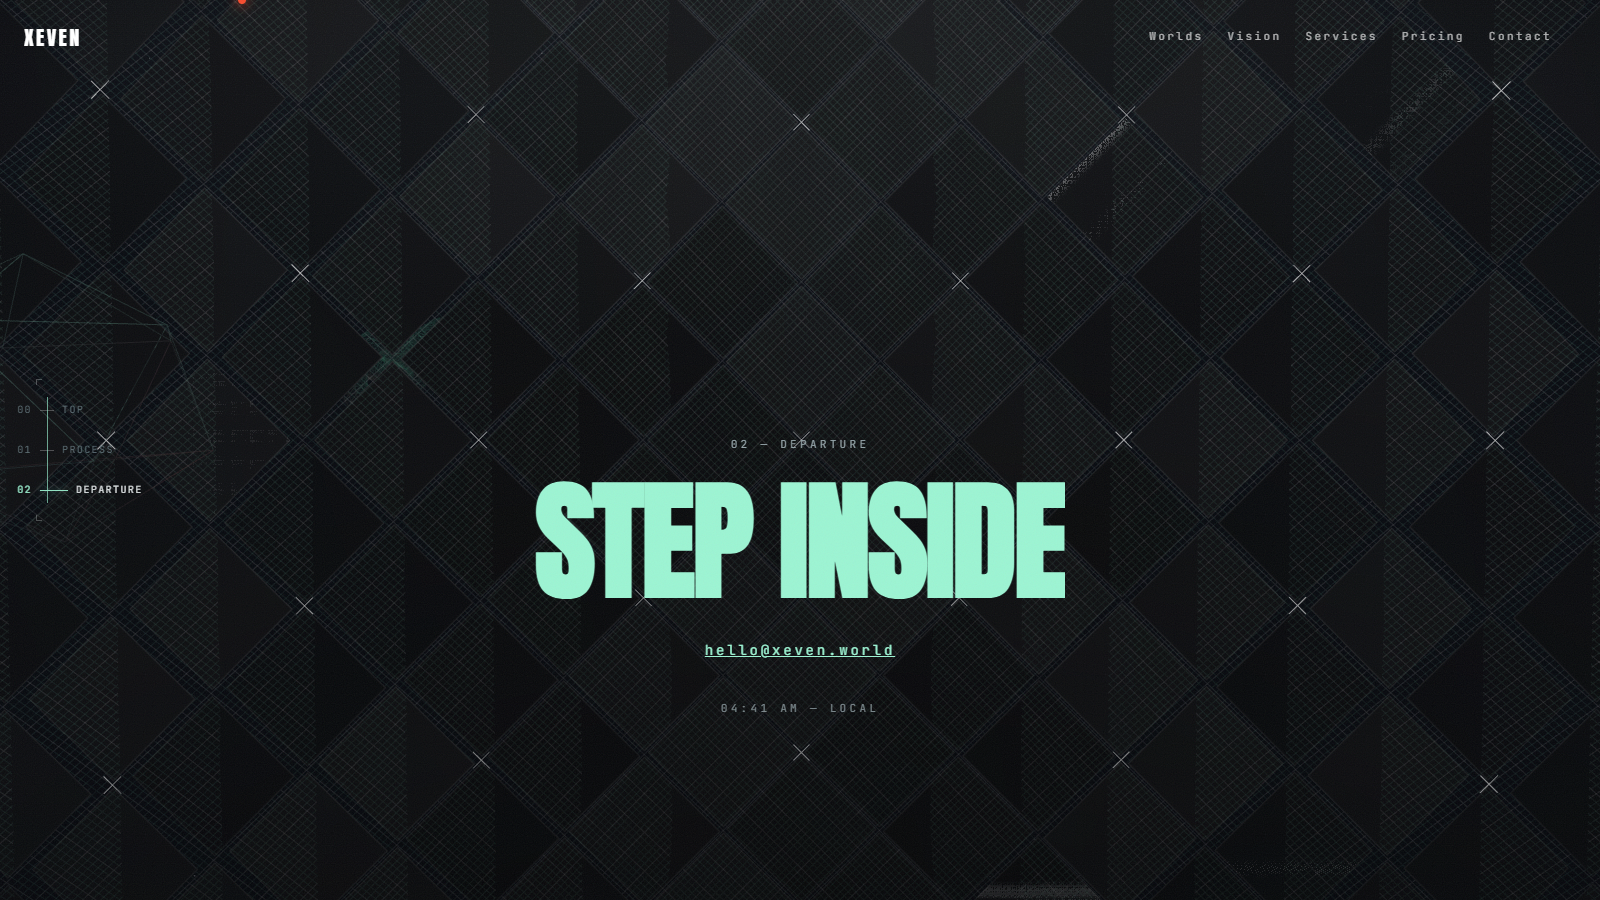
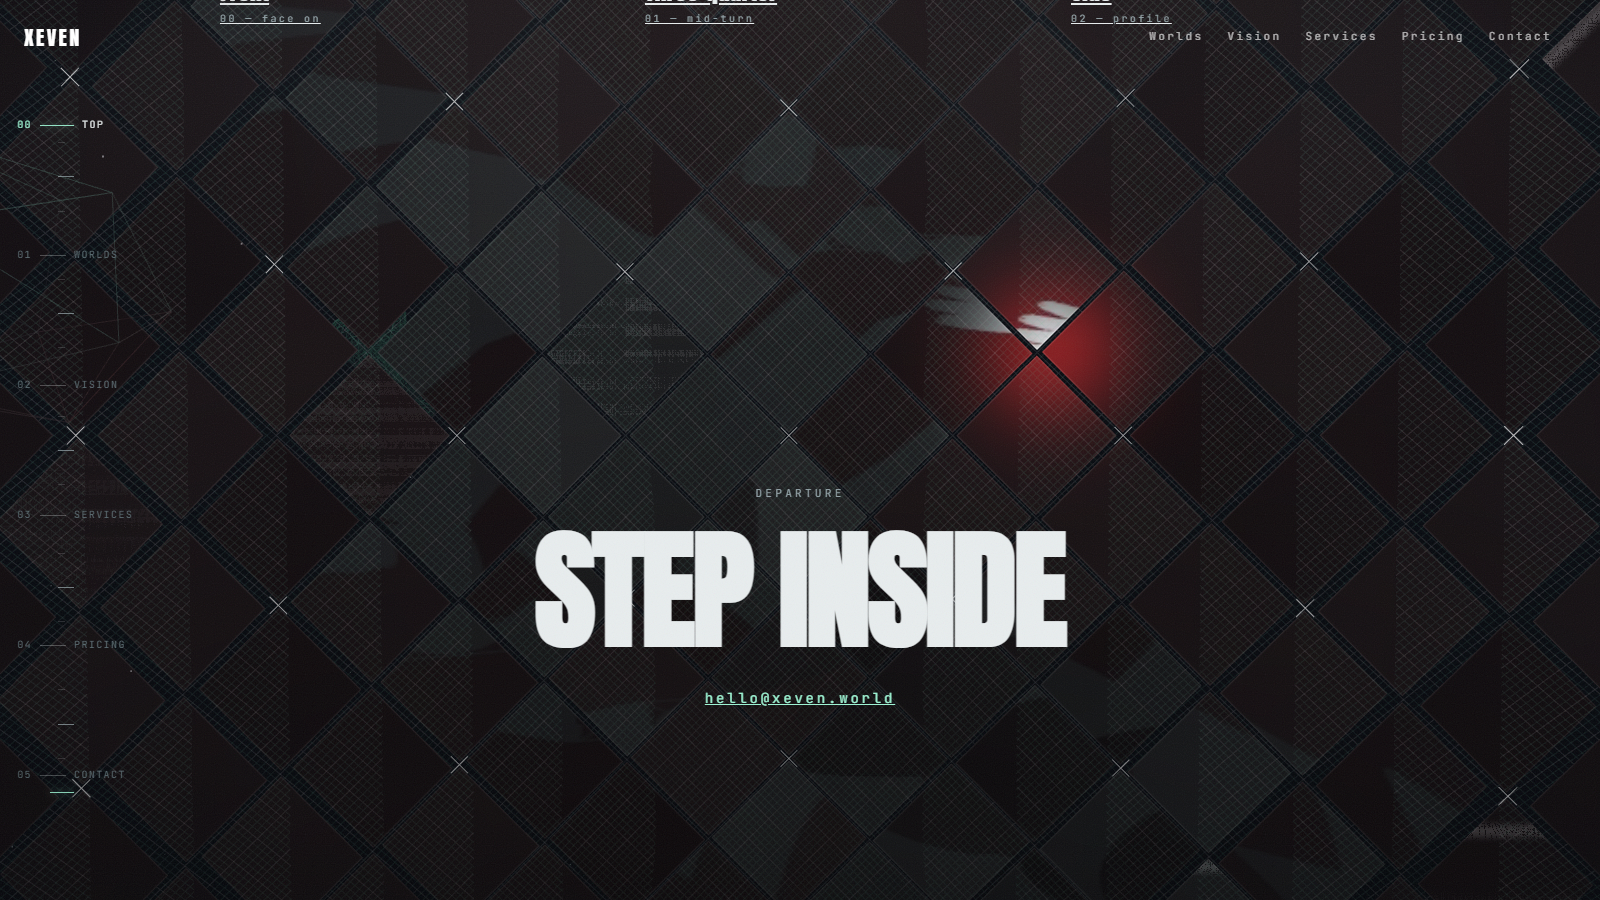
Index v2 BURST: the model is the hero

diff --git a/src/pages/EnterStage.tsx b/src/pages/EnterStage.tsx
@@ -2,43 +2,67 @@ import { useLayoutEffect, useRef, useState } from 'react'
 import gsap from 'gsap'
 import { ScrollTrigger } from 'gsap/ScrollTrigger'
 import { SplitText } from 'gsap/SplitText'
+import FilmStage from '../components/FilmStage'
 import { xs } from '../app/store'
 gsap.registerPlugin(ScrollTrigger, SplitText)
 
+/* Index v2 — BURST: the model is the hero. Sharp stage film up top,
+   anatomy stations on the descent, rotation-study cards, contact finale.
+   One timeline per property, transform/opacity only, lazy render. */
+
+const PARTS = [
+  {
+    n: '01',
+    t: 'Halo',
+    d: 'Starburst crown in sparse white linework — ten thousand sticks pretending to be ten million.',
+  },
+  {
+    n: '02',
+    t: 'Visor',
+    d: 'Smoked dark, drawn by absence. The face is what the lines refuse to say.',
+  },
+  {
+    n: '03',
+    t: 'Grin',
+    d: 'Gap-tooth grin over a ∇ torso. Friendly the way a signal flare is friendly.',
+  },
+  {
+    n: '04',
+    t: 'Hands',
+    d: 'Free hands floating on sine waves, out of phase with each other forever.',
+  },
+]
+
+const ANGLES = [
+  { src: '/assets/stills/front.png', t: 'Front', sub: '00 — face on' },
+  { src: '/assets/stills/three-quarter.png', t: 'Three-quarter', sub: '01 — mid-turn' },
+  { src: '/assets/stills/side.png', t: 'Side', sub: '02 — profile' },
+]
+
 export default function EnterStage() {
   const root = useRef<HTMLDivElement>(null!)
-  const scroll = useRef({ v: 0 })
-  const vel = useRef({ v: 0 })
   const [reduced] = useState(
     () => window.matchMedia('(prefers-reduced-motion: reduce)').matches,
   )
 
   useLayoutEffect(() => {
-    // reduced motion: no SplitText, pins, or scrubs — no ticker burn.
-    // Readable final states come from CSS + initial values below.
     if (reduced) return
     const ctx = gsap.context(() => {
-      // headline reveal
-      const split = new SplitText('.st-hero-title', { type: 'lines,words,chars', mask: 'lines', autoSplit: true })
+      // title reveal on load
+      const split = new SplitText('.bx-title', { type: 'lines,words,chars', mask: 'lines', autoSplit: true })
       gsap.from(split.chars, { yPercent: 120, duration: 1.1, ease: 'expo.out', stagger: 0.02, delay: 0.3 })
-      gsap.to('.st-fade', { opacity: 0, y: -50, ease: 'none', scrollTrigger: { trigger: '.st-hero', start: 'top top', end: 'bottom 30%', scrub: 1.2 } })
-      // dolly through space: the title pushes toward the camera and drifts
-      // up as the hero exits (parent scale — the SplitText chars own their
-      // own transforms, never contested)
-      gsap.to('.st-hero-title', {
-        scale: 1.18,
-        yPercent: -12,
-        ease: 'none',
-        scrollTrigger: { trigger: '.st-hero', start: 'top top', end: 'bottom 20%', scrub: 1.2 },
-      })
-      // ghost echo drifts slower than the title (depth without parallax
-      // libraries — transform-only, own property, own trigger range)
-      gsap.to('.hero-echo', {
-        yPercent: 24,
-        ease: 'none',
-        scrollTrigger: { trigger: '.st-hero', start: 'top top', end: 'bottom top', scrub: 1.2 },
-      })
-      // scroll cue: mint hairline draws as the hero leaves
+      // stage settles: near-native scale lands as the hero arrives
+      gsap.fromTo(
+        '.stage-film',
+        { scale: 1.06 },
+        {
+          scale: 1,
+          ease: 'none',
+          immediateRender: false,
+          scrollTrigger: { trigger: '.bx-hero', start: 'top top', end: 'bottom 40%', scrub: 1.2 },
+        },
+      )
+      // scroll cue draws as the hero leaves
       gsap.fromTo(
         '.st-cue b',
         { scaleX: 0 },
@@ -46,39 +70,73 @@ export default function EnterStage() {
           scaleX: 1,
           ease: 'none',
           immediateRender: false,
-          scrollTrigger: { trigger: '.st-hero', start: 'top top', end: 'bottom 35%', scrub: 1.2 },
+          scrollTrigger: { trigger: '.bx-hero', start: 'top top', end: 'bottom 35%', scrub: 1.2 },
         },
       )
-
-      // migrating mark: the topbar wordmark yields as the hero exits
-      // (it stays yielded — hero is the whole index now)
+      // wordmark yields while the model owns the page, returns for departure
       const tbLogo = document.querySelector('.tb-logo')
       if (tbLogo) {
         gsap.to(tbLogo, {
           opacity: 0,
           ease: 'none',
-          scrollTrigger: { trigger: '.st-hero', start: 'bottom 75%', end: 'bottom 30%', scrub: 1.2 },
+          scrollTrigger: { trigger: '.bx-hero', start: 'bottom 75%', end: 'bottom 30%', scrub: 1.2 },
+        })
+        gsap.to(tbLogo, {
+          opacity: 1,
+          ease: 'none',
+          scrollTrigger: { trigger: '.bx-fin', start: 'top 95%', end: 'top 55%', scrub: 1.2 },
         })
       }
-
-      // progress mirrors — trigger is the context root itself: selector text
-      // inside gsap.context only matches descendants, so '.st-scroll'
-      // resolves to nothing (GSAP "Element not found", mirror never fires)
+      // scroll velocity mirror for the world kindle
       ScrollTrigger.create({
         trigger: root.current,
         start: 'top bottom',
         end: 'bottom top',
         scrub: true,
         onUpdate: (self) => {
-          scroll.current.v = self.progress
-          const v = Math.min(1, Math.abs(self.getVelocity()) / 3000)
-          vel.current.v = v
-          xs.vel = v
+          xs.vel = Math.min(1, Math.abs(self.getVelocity()) / 3000)
         },
       })
-
+      // anatomy stations rise on the descent — one writer per row
+      gsap.utils.toArray<HTMLElement>('.bx-part').forEach((row) => {
+        gsap.fromTo(
+          row,
+          { y: 60, opacity: 0.3 },
+          {
+            y: 0,
+            opacity: 1,
+            ease: 'none',
+            immediateRender: false,
+            scrollTrigger: { trigger: row, start: 'top 88%', end: 'top 48%', scrub: 1.2 },
+          },
+        )
+      })
+      // rotation cards land in stagger
+      gsap.fromTo(
+        '.bx-card',
+        { y: 70, opacity: 0 },
+        {
+          y: 0,
+          opacity: 1,
+          ease: 'none',
+          stagger: 0.08,
+          immediateRender: false,
+          scrollTrigger: { trigger: '.bx-cards', start: 'top 85%', end: 'top 45%', scrub: 1.2 },
+        },
+      )
+      // finale title rises
+      gsap.fromTo(
+        '.bx-fin h2',
+        { y: 60, opacity: 0 },
+        {
+          y: 0,
+          opacity: 1,
+          ease: 'none',
+          immediateRender: false,
+          scrollTrigger: { trigger: '.bx-fin', start: 'top 85%', end: 'top 60%', scrub: 1.2 },
+        },
+      )
     }, root)
-
     return () => {
       ctx.revert()
     }
@@ -86,20 +144,55 @@ export default function EnterStage() {
 
   return (
     <div className="st-scroll" ref={root}>
-      <section className="st-hero">
-        <div className="hero-echo" aria-hidden="true">
-          XEVEN
-        </div>
-        <p className="mono st-fade">00 — TOP</p>
-        <h1 className="st-hero-title">WHAT IS XEVEN?</h1>
-        <p className="st-sub st-fade">Experience engine. Living systems. Nothing static survives.</p>
+      <section className="bx-hero">
+        <p className="mono">XEVEN — BURST STUDY X-002</p>
+        <FilmStage />
+        <h1 className="bx-title">THE MODEL MOVES</h1>
+        <p className="bx-sub">Eight million white sticks. One red room. Nothing static survives.</p>
         <p className="st-hint">
-          <span>move to stir the air →</span>
+          <span>scroll →</span>
           <i className="st-cue" aria-hidden="true">
             <b />
           </i>
         </p>
       </section>
+
+      <section className="bx-fig">
+        <p className="mono">ANATOMY — FOUR PARTS</p>
+        {PARTS.map((p) => (
+          <article key={p.n} className="bx-part">
+            <span className="bx-ghost" aria-hidden="true">
+              {p.n}
+            </span>
+            <span className="proc-n">{p.n}</span>
+            <h3>{p.t}</h3>
+            <p>{p.d}</p>
+          </article>
+        ))}
+      </section>
+
+      <section className="bx-work">
+        <p className="mono">ROTATION STUDY — THREE ANGLES</p>
+        <div className="bx-cards">
+          {ANGLES.map((a) => (
+            <a key={a.t} className="bx-card" href="#/worlds">
+              <img src={a.src} alt={`Burst model — ${a.t}`} loading="lazy" />
+              <span className="bx-cardmeta">
+                <b>{a.t}</b>
+                <i>{a.sub}</i>
+              </span>
+            </a>
+          ))}
+        </div>
+      </section>
+
+      <footer className="bx-fin">
+        <p className="mono">DEPARTURE</p>
+        <h2>STEP INSIDE</h2>
+        <a href="mailto:hello@xeven.world" data-cursor>
+          hello@xeven.world
+        </a>
+      </footer>
     </div>
   )
 }

diff --git a/src/chrome.css b/src/chrome.css
@@ -198,9 +198,57 @@
 .st-scroll { position: relative; z-index: 2; }
 /* content sections must each stack above the fixed canvas */
 .st-scroll > section, .st-scroll > footer { position: relative; z-index: 2; }
-.st-hero { position: relative; min-height: 100vh; min-height: 100svh; display: flex; flex-direction: column; align-items: center; justify-content: center; text-align: center; gap: var(--s24); padding: 0 6vw; }
-.st-hero-title { font-family: var(--disp); font-size: var(--disp-l); margin: 0; line-height: 0.95; text-wrap: balance; letter-spacing: -0.02em; }
-.st-sub { font-family: var(--cond); font-size: 18px; color: var(--muted); margin: 0; }
+/* ---------- index v2 — BURST: the model is the hero ---------- */
+.bx-hero { position: relative; min-height: 100vh; min-height: 100svh; display: flex; flex-direction: column; align-items: center; justify-content: center; text-align: center; gap: var(--s24); padding: 12vh 6vw 10vh; }
+/* sharp stage: near-native 16:9 film, crisp white-on-red, hairline frame */
+.stage { margin: 0; width: min(1060px, 88vw); }
+.stage-film {
+  display: block; width: 100%; aspect-ratio: 16/9; object-fit: cover;
+  border: 1px solid var(--line-strong); border-radius: 4px;
+  background: #4d0608;
+}
+.stage-chrome {
+  display: flex; justify-content: space-between; gap: var(--s16);
+  margin-top: var(--s12); font-family: var(--mono); font-size: 10px;
+  letter-spacing: 0.24em; color: var(--muted);
+}
+.bx-title { font-family: var(--disp); font-size: var(--disp-l); margin: 0; line-height: 0.95; text-wrap: balance; letter-spacing: -0.02em; }
+.bx-sub { font-family: var(--cond); font-size: 18px; color: var(--muted); margin: 0; }
+/* anatomy stations: full-height parts with ghost numerals */
+.bx-fig { padding: 24vh 8vw 16vh calc(8vw + 92px); display: flex; flex-direction: column; gap: 10vh; }
+.bx-part { position: relative; min-height: 70svh; display: flex; flex-direction: column; justify-content: center; gap: var(--s16); }
+.bx-ghost {
+  position: absolute; top: 4vh; right: 0;
+  font-family: var(--disp); font-size: clamp(120px, 18vw, 260px); line-height: 1;
+  letter-spacing: -0.02em; color: transparent;
+  -webkit-text-stroke: 1px rgba(232, 237, 238, 0.13);
+  pointer-events: none; user-select: none;
+}
+.bx-part h3 { font-family: var(--disp); font-size: clamp(40px, 7vw, 104px); line-height: 0.95; letter-spacing: -0.02em; margin: 0; }
+.bx-part p { color: var(--muted); font-size: 18px; margin: 0; max-width: 52ch; }
+/* rotation study: three sharp angles */
+.bx-work { padding: 16vh 8vw 20vh calc(8vw + 92px); display: flex; flex-direction: column; gap: var(--s48); }
+.bx-cards { display: grid; grid-template-columns: repeat(3, 1fr); gap: var(--s24); }
+.bx-card { display: flex; flex-direction: column; gap: var(--s12); will-change: transform, opacity; }
+.bx-card img {
+  display: block; width: 100%; aspect-ratio: 16/9; object-fit: cover;
+  border: 1px solid var(--line-strong); border-radius: 4px; background: #4d0608;
+  transition: transform 300ms ease, border-color 200ms ease;
+}
+.bx-card:hover img { transform: scale(1.02); border-color: var(--bone); }
+.bx-cardmeta { display: flex; flex-direction: column; gap: 4px; }
+.bx-cardmeta b { font-family: var(--disp); font-size: 24px; font-weight: 400; }
+.bx-cardmeta i { font-style: normal; font-family: var(--mono); font-size: 10px; letter-spacing: 0.24em; color: var(--muted); }
+/* departure finale */
+.bx-fin { padding: 30vh 6vw 20vh; text-align: center; display: flex; flex-direction: column; gap: var(--s24); align-items: center; }
+.bx-fin h2 { font-family: var(--disp); font-size: var(--disp-l); margin: 0; line-height: 0.95; letter-spacing: -0.02em; }
+.bx-fin a { position: relative; font-family: var(--mono); font-size: 14px; letter-spacing: 0.2em; color: var(--mint); min-height: 44px; display: inline-flex; align-items: center; }
+.bx-fin a::after {
+  content: ''; position: absolute; left: 0; right: 0; bottom: 8px; height: 1px;
+  background: var(--mint); transform: scaleX(0); transform-origin: right center;
+  transition: transform 240ms ease;
+}
+.bx-fin a:hover::after { transform: scaleX(1); transform-origin: left center; }
 .st-hint { position: absolute; bottom: 34px; left: 0; right: 0; margin: 0; font-family: var(--mono); font-size: 11px; letter-spacing: 0.24em; color: var(--muted); display: flex; flex-direction: column; align-items: center; gap: var(--s12); }
 /* the hint rides the hero section off-screen (absolute) instead of fading
    against the arriving fixed mark — no crossfade overlap, and the cue
@@ -210,13 +258,6 @@
    cue tween — transform-only) */
 .st-cue { display: block; width: 64px; height: 1px; background: var(--line-strong); }
 .st-cue b { display: block; width: 100%; height: 100%; background: var(--mint); transform: scaleX(0); transform-origin: left center; }
-/* ghost echo: giant outlined XEVEN breathing behind the title */
-.hero-echo {
-  position: absolute; inset: 0; display: flex; align-items: center; justify-content: center;
-  font-family: var(--disp); font-size: clamp(120px, 26vw, 420px); letter-spacing: -0.02em;
-  color: transparent; -webkit-text-stroke: 1px rgba(232, 237, 238, 0.07);
-  pointer-events: none; user-select: none;
-}
 @keyframes kvbob { 0%, 100% { transform: translateY(0); opacity: 0.75; } 50% { transform: translateY(8px); opacity: 1; } }
 
 .st-mani { min-height: 120vh; display: flex; flex-direction: column; justify-content: center; gap: var(--s32); padding: 26vh 8vw; }
@@ -355,6 +396,8 @@
   .tb-right { margin-left: auto; }
   .works-grid, .tier-grid, .stats-grid { grid-template-columns: 1fr; }
   .proc-row { grid-template-columns: 44px 1fr; }
+  .bx-fig, .bx-work { padding-left: 8vw; }
+  .bx-cards { grid-template-columns: 1fr; }
 }
 
 /* coarse pointers: no hover-only affordances depend on precision here. */

diff --git a/src/components/FilmStage.tsx b/src/components/FilmStage.tsx
@@ -1,0 +1,23 @@
+/* FilmStage: the burst model playing sharp — near-native 16:9 stage,
+   mono chrome (sheet no, loop length), zero controls, zero decoration.
+   The video element owns clarity; the world field keeps the ambience. */
+
+export default function FilmStage() {
+  return (
+    <figure className="stage" aria-label="XEVEN burst model — 8M-stick turntable loop">
+      <video
+        className="stage-film"
+        src="/assets/burst.mp4"
+        muted
+        loop
+        playsInline
+        autoPlay
+        preload="auto"
+      />
+      <figcaption className="stage-chrome" aria-hidden="true">
+        <span>SHEET X-002 · 8M STICKS</span>
+        <span>TURNTABLE · 8S LOOP</span>
+      </figcaption>
+    </figure>
+  )
+}

diff --git a/index.html b/index.html
@@ -6,7 +6,7 @@
     <meta name="viewport" content="width=device-width, initial-scale=1.0, viewport-fit=cover" />
     <meta name="description" content="XEVEN — Experience Engine. Architects of living worlds where cinematic 3D, real-time data, and human emotion intersect." />
     <meta name="theme-color" content="#06090F" />
-    <title>XEVEN — Step Beyond the Static Web</title>
+    <title>XEVEN — The Model Moves</title>
     <meta property="og:title" content="XEVEN — Step Beyond the Static Web" />
     <meta property="og:description" content="XEVEN — Experience Engine. Architects of living worlds where cinematic 3D, real-time data, and human emotion intersect." />
     <meta property="og:type" content="website" />

diff --git a/src/components/VoidWorld.tsx b/src/components/VoidWorld.tsx
@@ -40,7 +40,7 @@ const BOW = 2.2 // concave hollow at centre, world units
 const IDLE_MS = 6000
 
 const SECTIONS = [
-  '.st-hero',
+  '.bx-hero',
 ]
 // camera journey: a single hold over the hero [x, y, z] — the index is
 // one act now, the world simply breathes beneath it
@@ -343,7 +343,7 @@ export default function VoidWorld() {
     burstTex.colorSpace = THREE.SRGBColorSpace
     burstVid.addEventListener('canplay', () => {
       quadUniforms.uFace.value = burstTex
-      quadUniforms.uFaceAmt.value = 0.28
+      quadUniforms.uFaceAmt.value = 0.16
       quadUniforms.uDrift.value = reduced ? 0 : 1
     })
     burstVid.play().catch(() => {})

diff --git a/backlog.md b/backlog.md
@@ -64,4 +64,5 @@ Scope frozen: map-only phase found zero blank routes, zero dead links, zero cons
 - [x] Reel declutter: white veil wash + letterbox bars fully removed (timeline, elements, CSS, reduced rules) — the orbit now floats pure on the diamond field with ghost + counter only. Verified: build green, 3 pre-existing warnings, Edge 0 errors / 0 overflow. Frame VISUALLY VERIFIED (clean dark orbit, no wash, no bars). Evidence: refreshed g4.
 - [x] Blob streaks removed (cursor line gone, kindle glow kept): excised the 110-particle streak system from VOIDWORLD — geometry, projector math, per-frame particle sim, debug toggle — while preserving the eased finger/echo feed, stir/bloom/velocity uniforms and the quad-shader kindle. The field still breathes light around the pointer; no line, streak, or shape ever chases it now. Verified: build green, tsc clean, 3 pre-existing warnings, Edge 0 errors / 0 overflow on a mouse-sweep pass, hero frame shows zero trailing geometry. Evidence: refreshed g0 in verify/world/.
 - [x] Five-act index (A–F execution): trimmed to TOP → CAPABILITIES → PROCESS → SHOWREEL → DEPARTURE — manifesto pin/scrub, stats/counters/rules, tiers/TierCard deleted with all tweens (178 lines out); tb-logo return retargeted to foot; rail + camera journey 8→5 stops. (B) TopBar invisible on index (rail owns nav; returns on subpages). Rail rebuilt as survey instrument: always-on labels, 10px type, glowing active tick, end-cap brackets, progress hairline. (C) Fan-deck THROW: deck materializes behind the mark, cards toss on curved paths (linear x × eased y) unwinding rotation and blooming scale into slots. (D) Showreel STAGE: pinned fullscreen takes assembling/yielding through the frame (single timeline owns all cell opacity/scale); X slide-cover kept as the door (fits the bridge); counter intact. (E) Cursor stripped to one crisp 1:1 dot (ring/dot/trail gone, difference-blend kept); intro tightened 3.3s→1.9s (fast burn, ember kiss, SIGNAL/WORLD/LIVE ledger). Verified: builds green throughout, 3 pre-existing warnings, Edge 0 errors / 0 overflow, 5 rail stops from 00 TOP, dead sections absent, 1 dot 0 rings, 5 cells staged. Frames VISUALLY VERIFIED (instrument rail, thrown card + ghost 01, ember rows + node + black X). Evidence: verify/world/d4-world.json + refreshed g0/g1/g2.
+- [x] Index v2 BURST (model as hero): hero carries a giant sharp FilmStage (burst.mp4 near-native, mono chrome, settle-scale on scrub) under THE MODEL MOVES; ANATOMY descent (Halo/Visor/Grin/Hands, ghost numerals, per-row writers); ROTATION STUDY cards (front/three-quarter/side stills, stagger land, link /worlds); STEP INSIDE finale with wordmark yield+return; world film stepped back to 0.16 so the stage owns clarity; waypoint retargeted to .bx-hero. Verified: builds green, Edge 0 errors / 0 overflow, 61fps, stage playing at 1058px, 4 parts + 4 ghosts, 3 cards at 800px. Frames VISUALLY VERIFIED (crisp figure hero, anatomy stations, angle cards + finale). Evidence: verify/world/d4-world.json + g0/g1/g2/g4.
 - [x] Burst film woven in: captured the xeven-burst 8M-stick study headless (turntable on, UI stripped, 48 PNGs → ffmpeg 12fps ping-pong loop, 8s seamless, 336KB public/assets/burst.mp4); quad mosaic now plays the film (muted VideoTexture, loop, amount 0 until canplay, tuned 0.32→0.28); static face.png deleted. Verified: builds green, Edge 0 errors / 0 overflow. Frame VISUALLY VERIFIED (halo/torso/hands drift across diamonds over red room tone, title clean). Evidence: verify/world/d4-world.json + g0 + verify/burst/.
